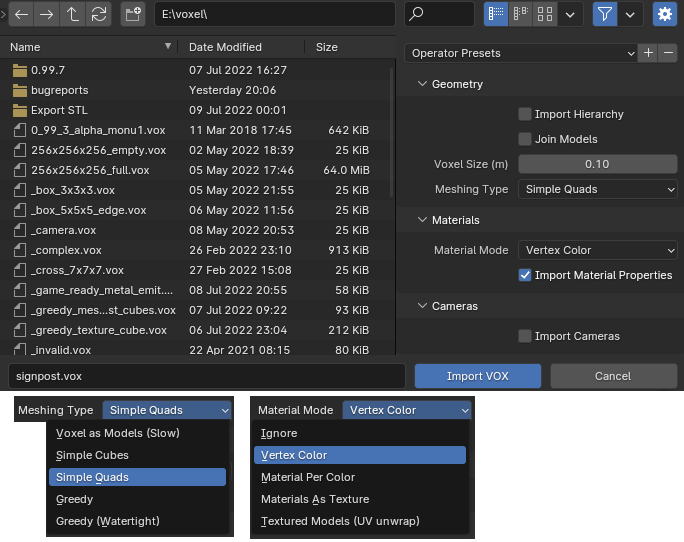
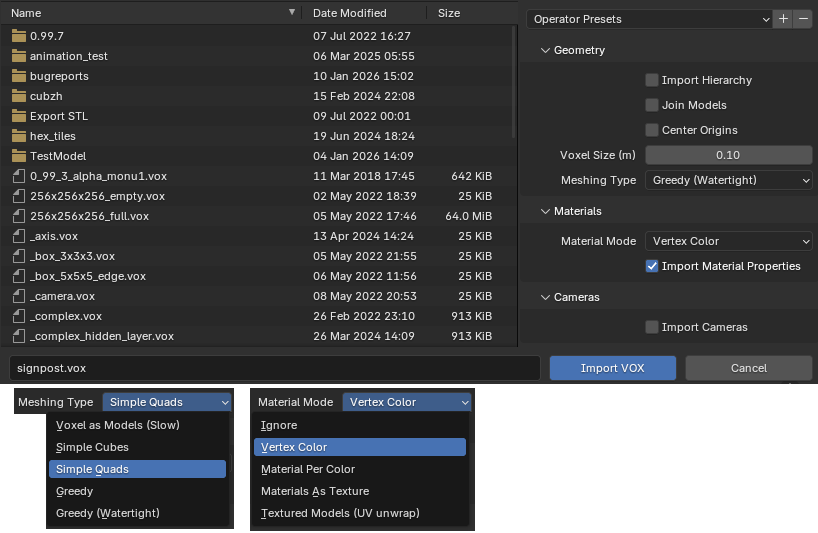
Update README

diff --git a/README.md b/README.md
@@ -57,6 +57,12 @@ and applied to each model and no hierarchy parent structure is created.
 This option allows all models in the MagicaVoxel file to be merged into one. Joining is done on a voxel basis and before
 meshing which is superior to just combining the blender meshes for generating the voxel hull and greedy meshing.
 
+### Center Origins
+
+MagicaVoxel object origins are located at the center of the object bounds and always between voxels. That means for
+uneven bounds (for example `5x5x3`) the origin is not at `(2.5, 2.5, 1.5)` but rather at `(2, 2, 1)`. This option
+calculates the object center from the geometry instead and moves the mesh origin at that center in post-processing.
+
 ### Voxel Size
 
 The voxel size parameter can be used to define the unit voxel size. The example below shows a voxel model imported with